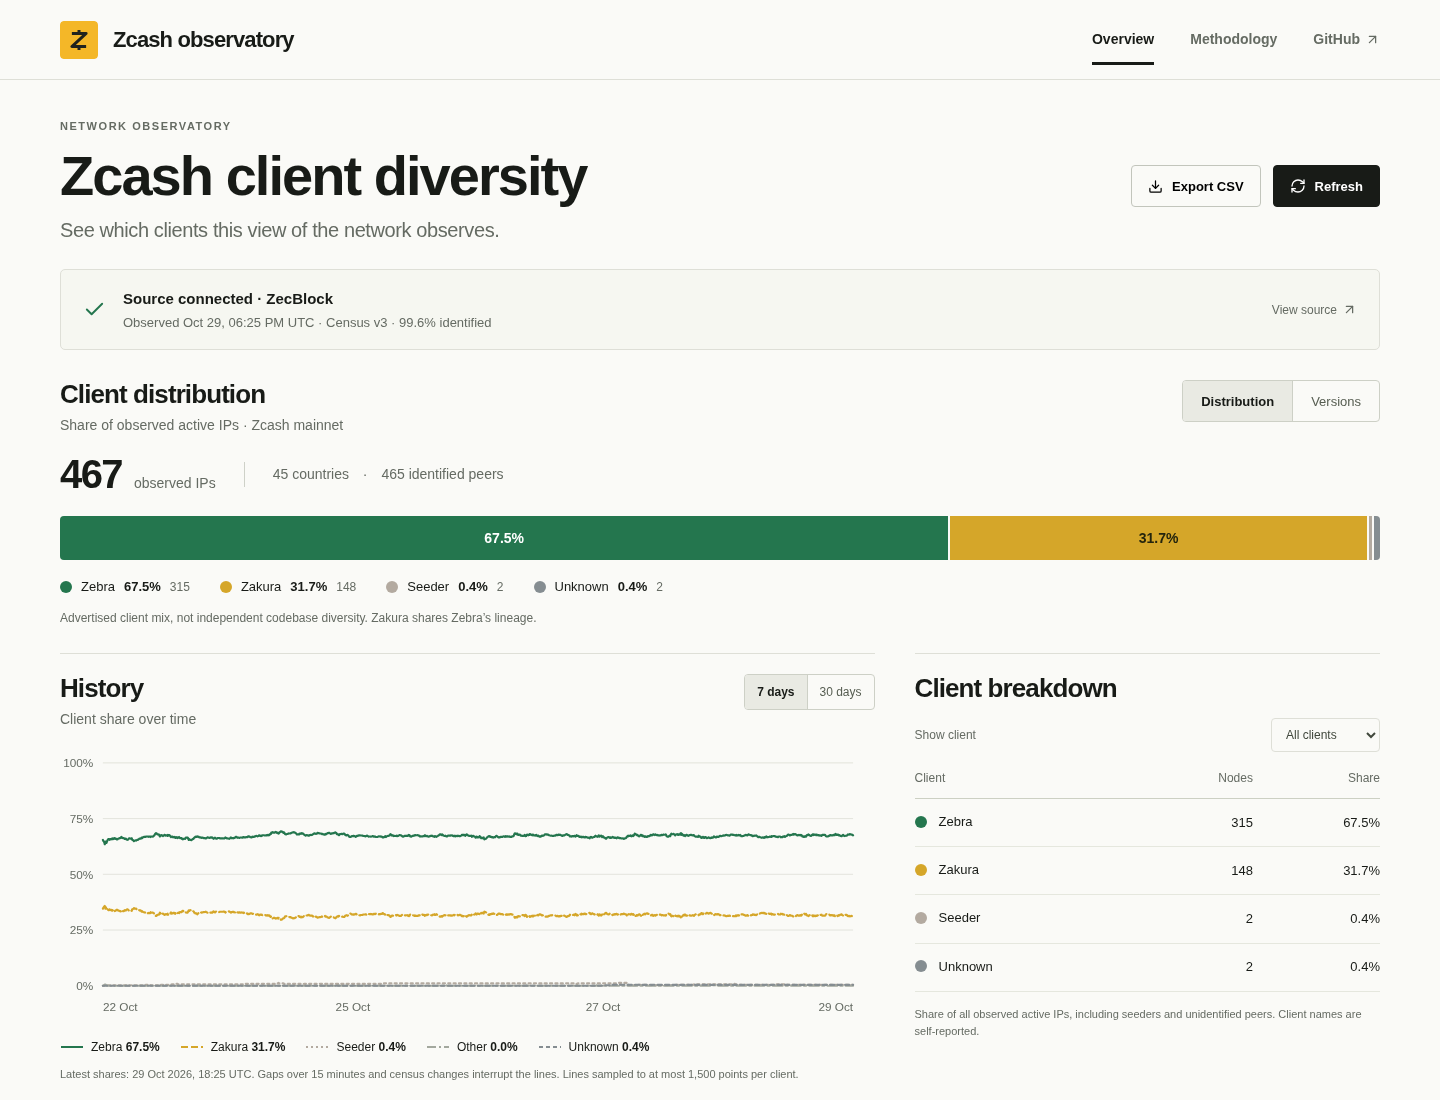
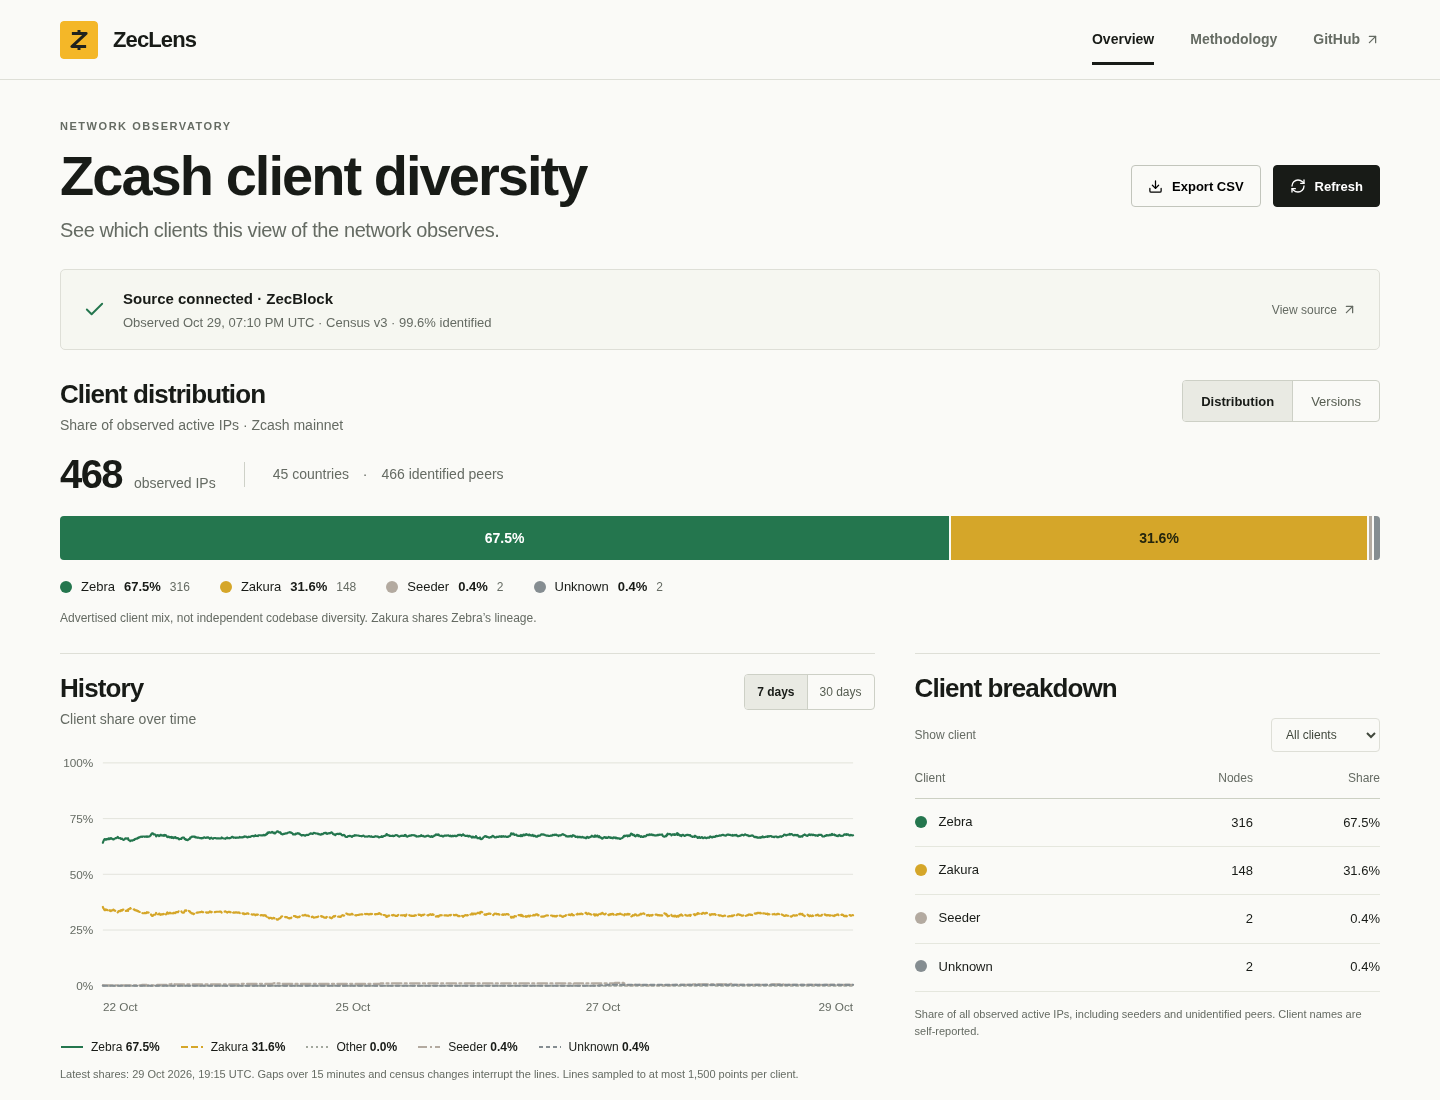
fix: rewrite TypeScript imports for the hosted API

diff --git a/tests/hosted-emit.test.ts b/tests/hosted-emit.test.ts
@@ -1,0 +1,50 @@
+import test from "node:test";
+import assert from "node:assert/strict";
+import { mkdtemp, mkdir, readFile, writeFile, rm } from "node:fs/promises";
+import { tmpdir } from "node:os";
+import { dirname, join } from "node:path";
+import { fileURLToPath, pathToFileURL } from "node:url";
+import ts from "typescript";
+
+test("compiled hosted entrypoint resolves every relative module without TypeScript sources", async () => {
+  const root = fileURLToPath(new URL("../", import.meta.url));
+  const folder = await mkdtemp(join(tmpdir(), "zeclens-emitted-"));
+  const config = ts.readConfigFile(
+    join(root, "tsconfig.json"),
+    ts.sys.readFile,
+  ).config;
+  const options = ts.convertCompilerOptionsFromJson(
+    config.compilerOptions,
+    root,
+  ).options;
+  try {
+    await writeFile(
+      join(folder, "package.json"),
+      JSON.stringify({ type: "module" }),
+    );
+    for (const name of [
+      "api/dashboard.ts",
+      "server/hosted.ts",
+      "server/app.ts",
+      "src/lib/census.ts",
+    ]) {
+      const source = await readFile(join(root, name), "utf8");
+      const output = ts.transpileModule(source, {
+        compilerOptions: options,
+        fileName: join(root, name),
+      }).outputText;
+      const target = join(folder, name.replace(/\.ts$/, ".js"));
+      await mkdir(dirname(target), { recursive: true });
+      await writeFile(target, output);
+    }
+    const route = await import(
+      pathToFileURL(join(folder, "api/dashboard.js")).href
+    );
+    const response = await route.GET(
+      new Request("https://zeclens.vercel.app/api/dashboard?period=invalid"),
+    );
+    assert.equal(response.status, 400);
+  } finally {
+    await rm(folder, { recursive: true, force: true });
+  }
+});

diff --git a/docs/QA.md b/docs/QA.md
@@ -44,3 +44,5 @@ This is a local application and repository delivery, not a deployed website. Zec
 ## ZecLens publishing update
 
 The public product name is now **ZecLens**; “Zcash client diversity” remains the page title and analytical purpose. Added a Vercel Web handler that reuses the tested service, keeps query destinations fixed, and only shares successful public aggregates through a bounded CDN cache. All **32 named tests** and the production build pass, including three hosted-handler boundary/cache checks. Runtime caches are best effort per function instance and do not persist across cold starts. Public deployment verification is recorded after release.
+
+The first Vercel runtime check caught `.ts` import paths surviving compilation into JavaScript. A new compiled-entrypoint regression reproduces the missing-module failure without TypeScript source files, then verifies the emitted route loads and enforces query validation. Enabling TypeScript’s relative import-extension rewrite resolves the reproduced failure. All **33 tests** and the production build pass.
